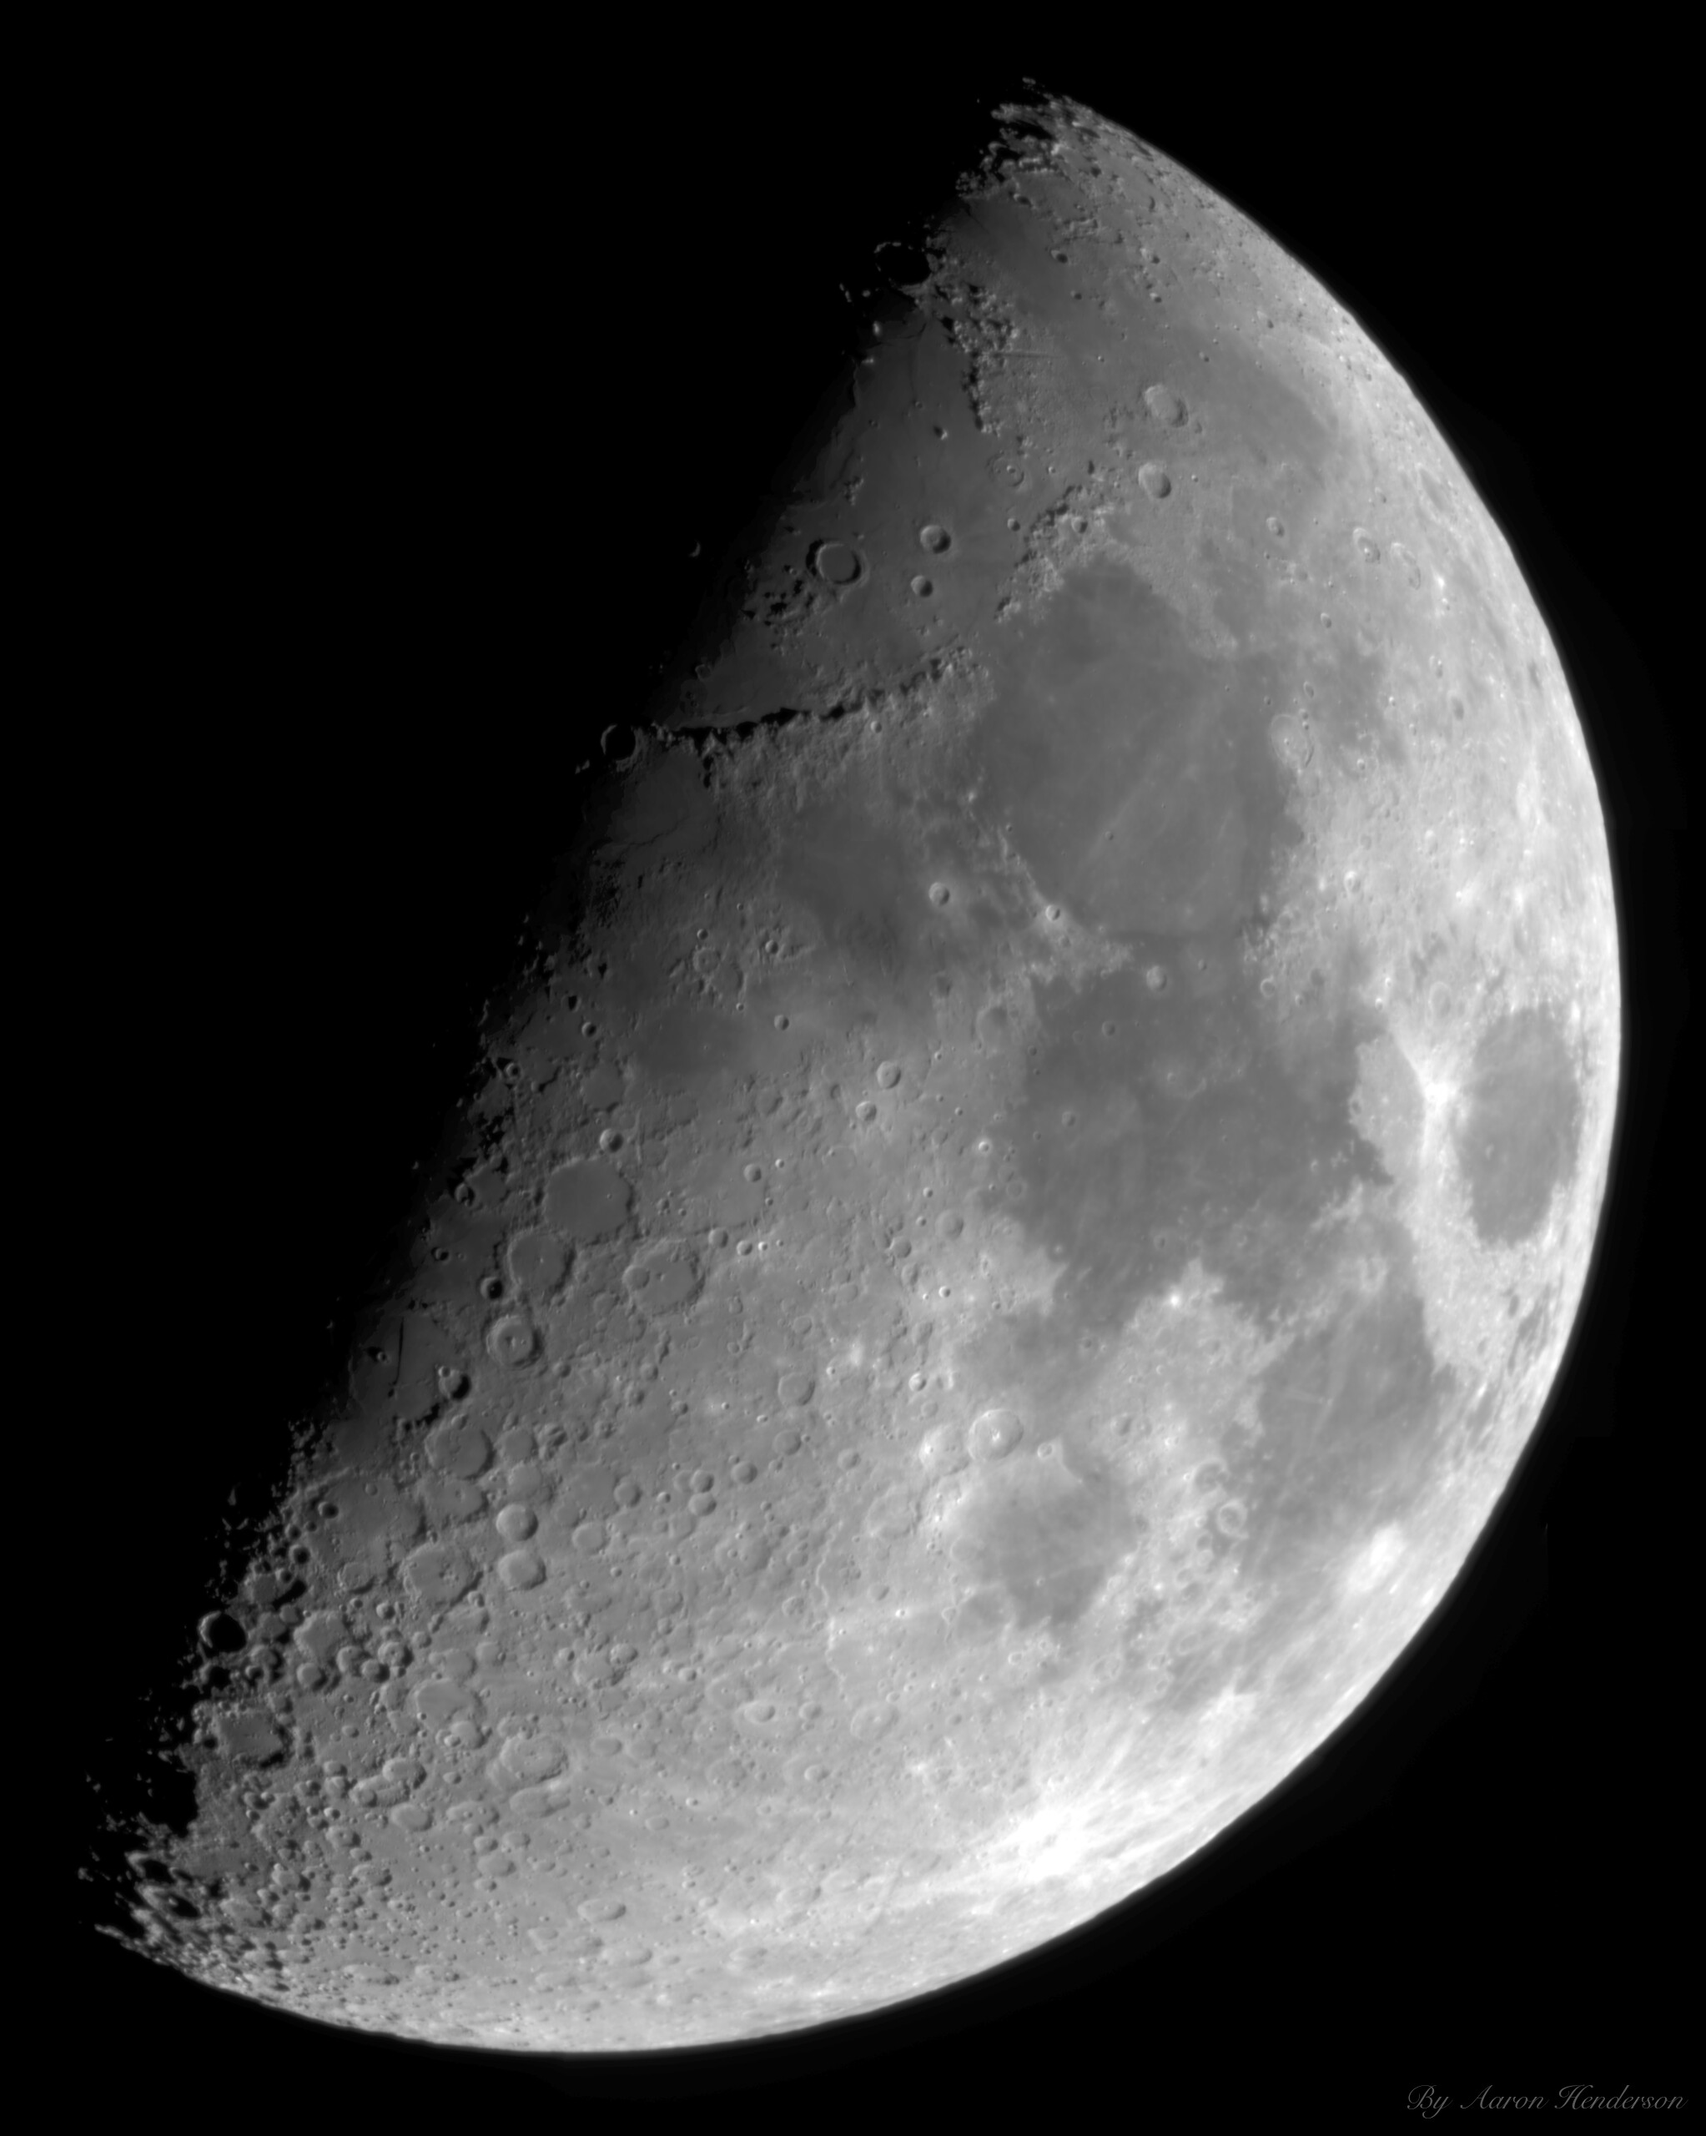
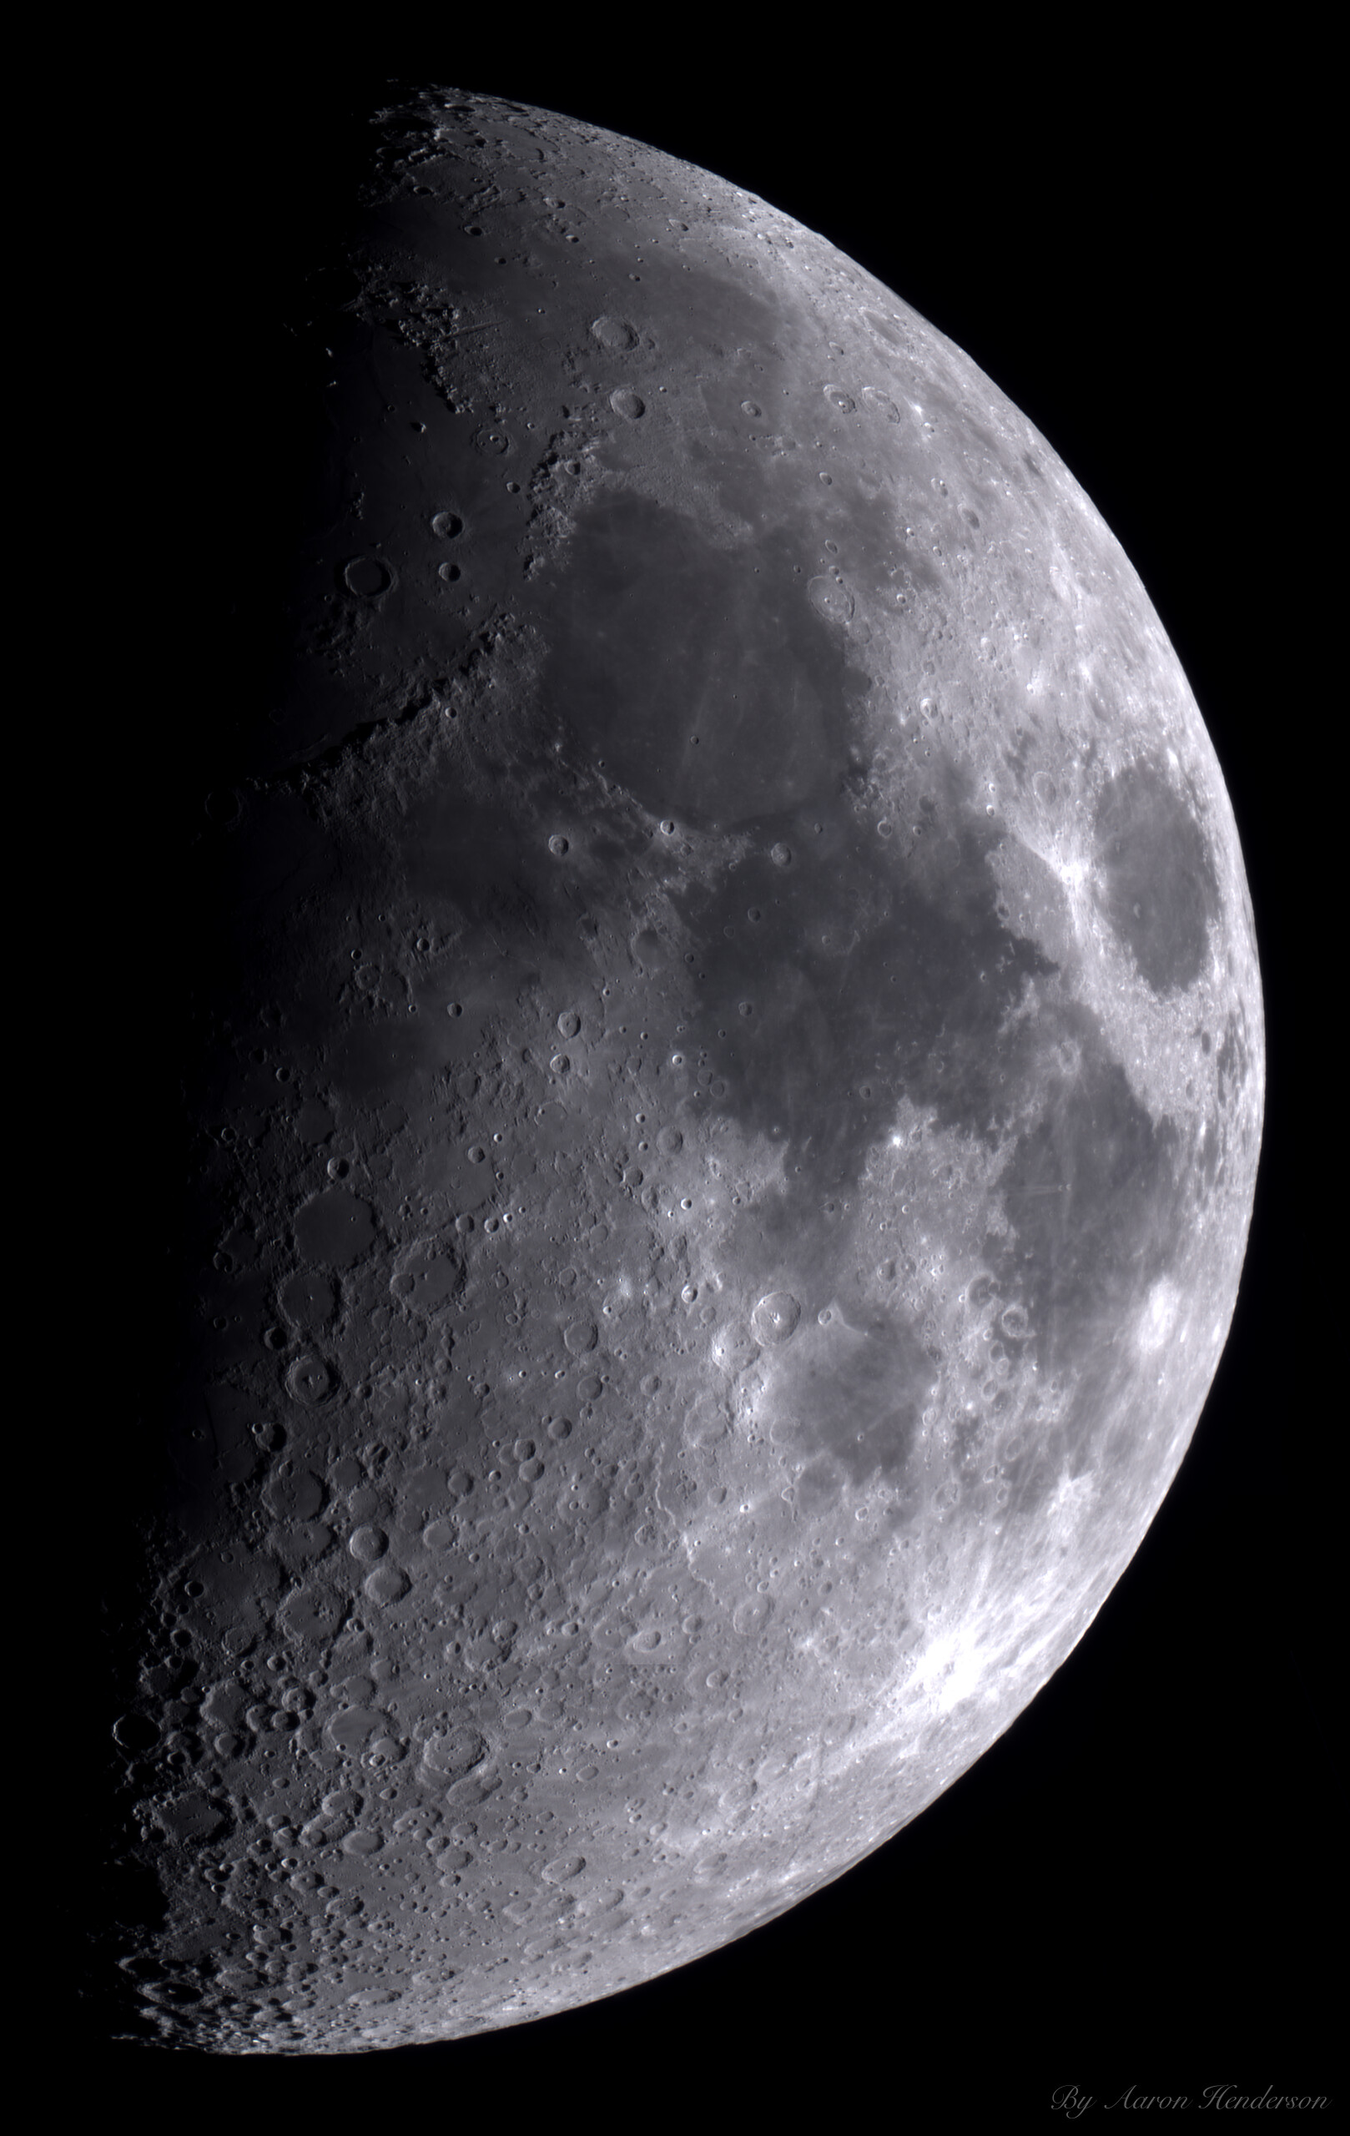
Update gallery

diff --git a/data/images/1st-quarter-moon-2026-11-17.md b/data/images/1st-quarter-moon-2026-11-17.md
@@ -26,7 +26,7 @@ is_event: false
 event_type: 
 tags: [Moon]
 license: CC BY-NC 4.0
-master: "questar-asi183-archive/solar-system/lunar/2026-11-17/2026-11-17-questar-moon-mosaic.png"
+master: "questar-asi183-archive/solar-system/lunar/2026-11-17/hero/2026-11-17-questar-moon-mosaic.png"
 ---
 
 **Workflow**
